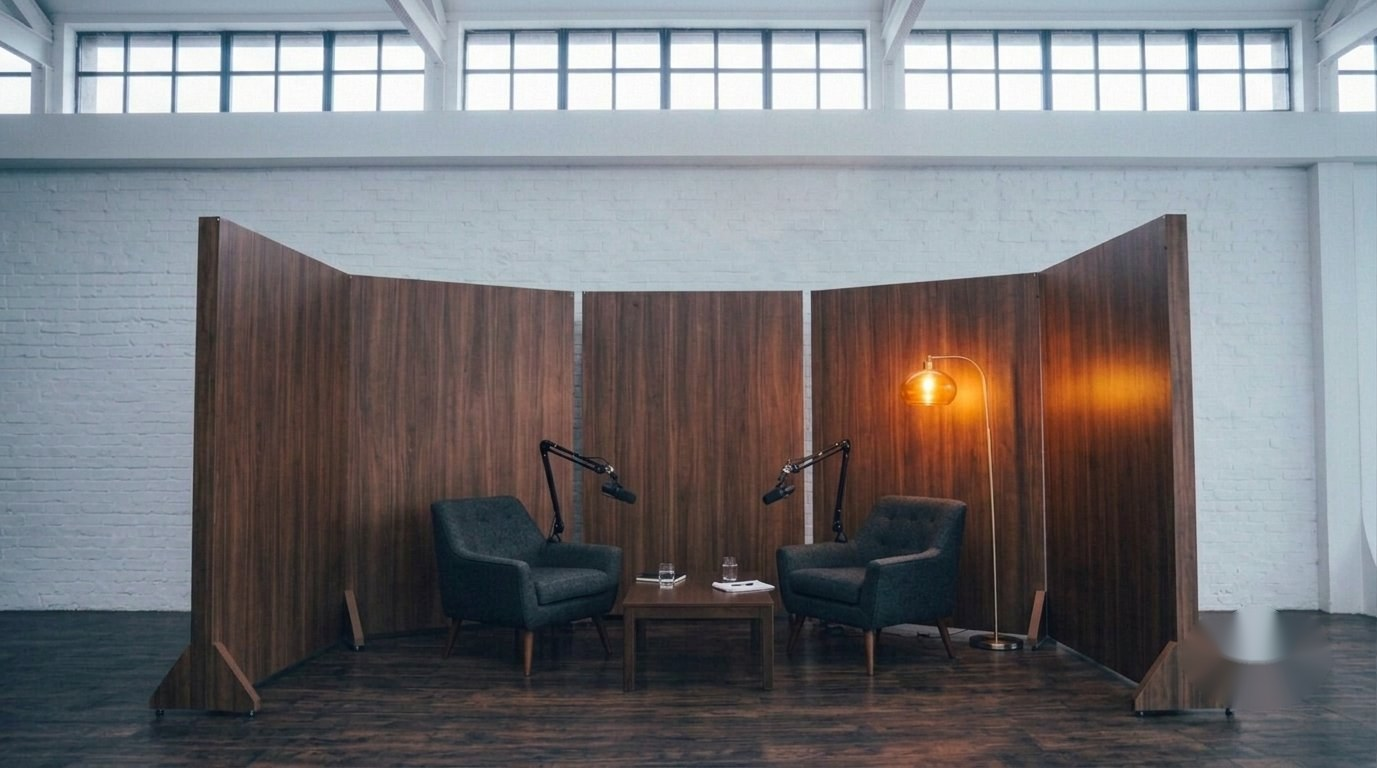
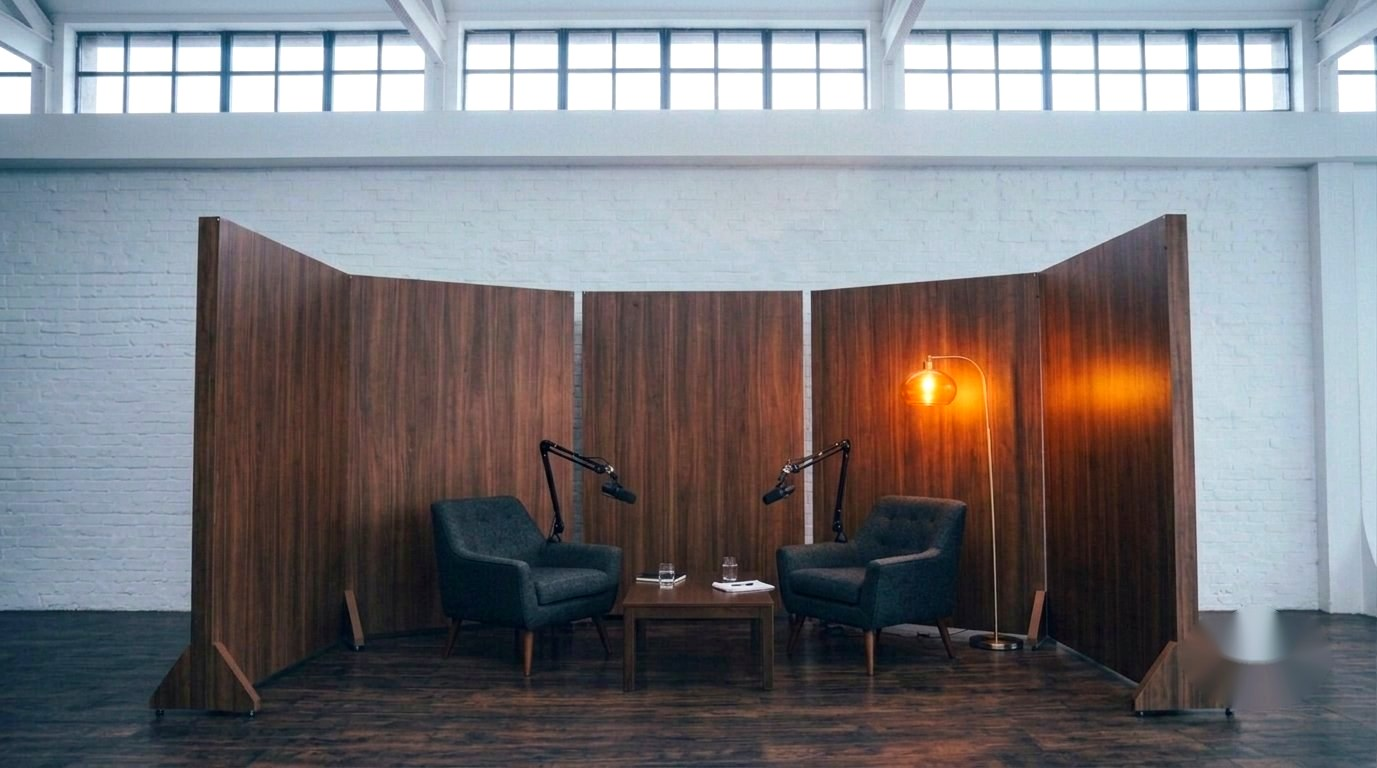
Brighten imagery and switch hero to black text on light wash
The photos were being dimmed three ways: heavy dark hero gradient,
80-90% opacity on card images, and a muted source grade. Now:

- Enhance the three photos (brightness/contrast/saturation)
- Hero: soft white wash behind the text instead of a dark scrim, with
  near-black headline/copy and new btn-dark/btn-dark-ghost variants
- Space cards (home + booking): full-opacity images with a slimmer
  bottom-only gradient for the labels

Claude-Session: https://claude.ai/code/session_01An6sVbWHAV2AaYhcWphVLJ

Changed region(s): [[0.6558, 0.4688, 0.8431, 0.5625]]

diff --git a/app/globals.css b/app/globals.css
@@ -102,6 +102,48 @@ h4 {
   transform: translateY(-1px);
 }
 
+/* dark-on-light variants for use over bright imagery */
+.btn-dark {
+  display: inline-flex;
+  align-items: center;
+  gap: 12px;
+  padding: 14px 28px;
+  background: var(--ink);
+  color: var(--paper);
+  border: 1px solid var(--ink);
+  font-size: 11px;
+  letter-spacing: 0.32em;
+  text-transform: uppercase;
+  transition: transform 0.25s ease, background 0.25s ease, color 0.25s ease;
+}
+
+.btn-dark:hover {
+  background: transparent;
+  color: var(--ink);
+  transform: translateY(-1px);
+}
+
+.btn-dark-ghost {
+  display: inline-flex;
+  align-items: center;
+  gap: 12px;
+  padding: 14px 28px;
+  background: transparent;
+  color: var(--ink);
+  border: 1px solid rgba(0, 0, 0, 0.45);
+  font-size: 11px;
+  letter-spacing: 0.32em;
+  text-transform: uppercase;
+  transition: transform 0.25s ease, background 0.25s ease, color 0.25s ease, border-color 0.25s ease;
+}
+
+.btn-dark-ghost:hover {
+  background: var(--ink);
+  color: var(--paper);
+  border-color: var(--ink);
+  transform: translateY(-1px);
+}
+
 .btn-ghost {
   display: inline-flex;
   align-items: center;

diff --git a/app/page.tsx b/app/page.tsx
@@ -15,29 +15,29 @@ export default function Home() {
           className="absolute inset-0 bg-cover bg-center"
           style={{
             backgroundImage:
-              "linear-gradient(180deg, rgba(0,0,0,0.35) 0%, rgba(0,0,0,0.78) 100%), url('/images/infinity-cove.jpg')",
+              "linear-gradient(96deg, rgba(246,244,240,0.9) 0%, rgba(246,244,240,0.62) 38%, rgba(246,244,240,0.12) 62%, rgba(246,244,240,0) 75%), url('/images/infinity-cove.jpg')",
           }}
         />
         <div className="relative z-10 mx-auto flex h-full max-w-[1120px] flex-col justify-end px-6 pb-16 sm:px-10 sm:pb-24">
-          <span className="eyebrow fade-up">Film & photo studio hire · Wembley, London</span>
+          <span className="eyebrow fade-up !text-black/60">Film & photo studio hire · Wembley, London</span>
           <h1
-            className="fade-up fade-up-delay-1 mt-5 max-w-[820px] text-4xl leading-[1.05] tracking-[-0.01em] sm:text-6xl"
+            className="fade-up fade-up-delay-1 mt-5 max-w-[820px] text-4xl leading-[1.05] tracking-[-0.01em] text-[#0d0d0d] sm:text-6xl"
             data-testid="hero-title"
           >
             One infinity cove.
             <br />
             Four spaces that transform.
           </h1>
-          <p className="fade-up fade-up-delay-2 muted-copy mt-6 max-w-[560px] text-base sm:text-lg">
+          <p className="fade-up fade-up-delay-2 mt-6 max-w-[560px] text-base leading-relaxed text-black/70 sm:text-lg">
             Oli Cinematics is a production studio in Wembley, London: a seamless white infinity cove and
             four flexible spaces built on rotating panel sets. Every space books independently — run your
             podcast while the photo shoot is next door.
           </p>
           <div className="fade-up fade-up-delay-3 mt-10 flex flex-wrap gap-4">
-            <Link href="/book" className="btn-primary" data-testid="hero-book-btn">
+            <Link href="/book" className="btn-dark" data-testid="hero-book-btn">
               Book a Space
             </Link>
-            <Link href="/studios" className="btn-ghost" data-testid="hero-explore-btn">
+            <Link href="/studios" className="btn-dark-ghost" data-testid="hero-explore-btn">
               Explore Spaces
             </Link>
           </div>
@@ -70,9 +70,9 @@ export default function Home() {
                   alt={space.name}
                   width={1200}
                   height={800}
-                  className="h-full w-full object-cover opacity-90 transition duration-700 group-hover:scale-105 group-hover:opacity-100"
+                  className="h-full w-full object-cover transition duration-700 group-hover:scale-105"
                 />
-                <div className="absolute inset-0 bg-gradient-to-t from-black/70 via-black/10 to-transparent" />
+                <div className="absolute inset-0 bg-gradient-to-t from-black/60 via-transparent to-transparent" />
                 <div className="absolute bottom-4 left-5 right-5 flex items-end justify-between">
                   <div>
                     <span className="eyebrow">0{idx + 1}</span>

diff --git a/src/components/BookingPanel.tsx b/src/components/BookingPanel.tsx
@@ -177,9 +177,9 @@ export function BookingPanel() {
                     alt={space.name}
                     width={800}
                     height={500}
-                    className="h-full w-full object-cover opacity-80"
+                    className="h-full w-full object-cover"
                   />
-                  <div className="absolute inset-0 bg-gradient-to-t from-black/70 to-transparent" />
+                  <div className="absolute inset-0 bg-gradient-to-t from-black/55 via-transparent to-transparent" />
                 </div>
                 <div className="p-4">
                   <p className="eyebrow">{space.tagline}</p>